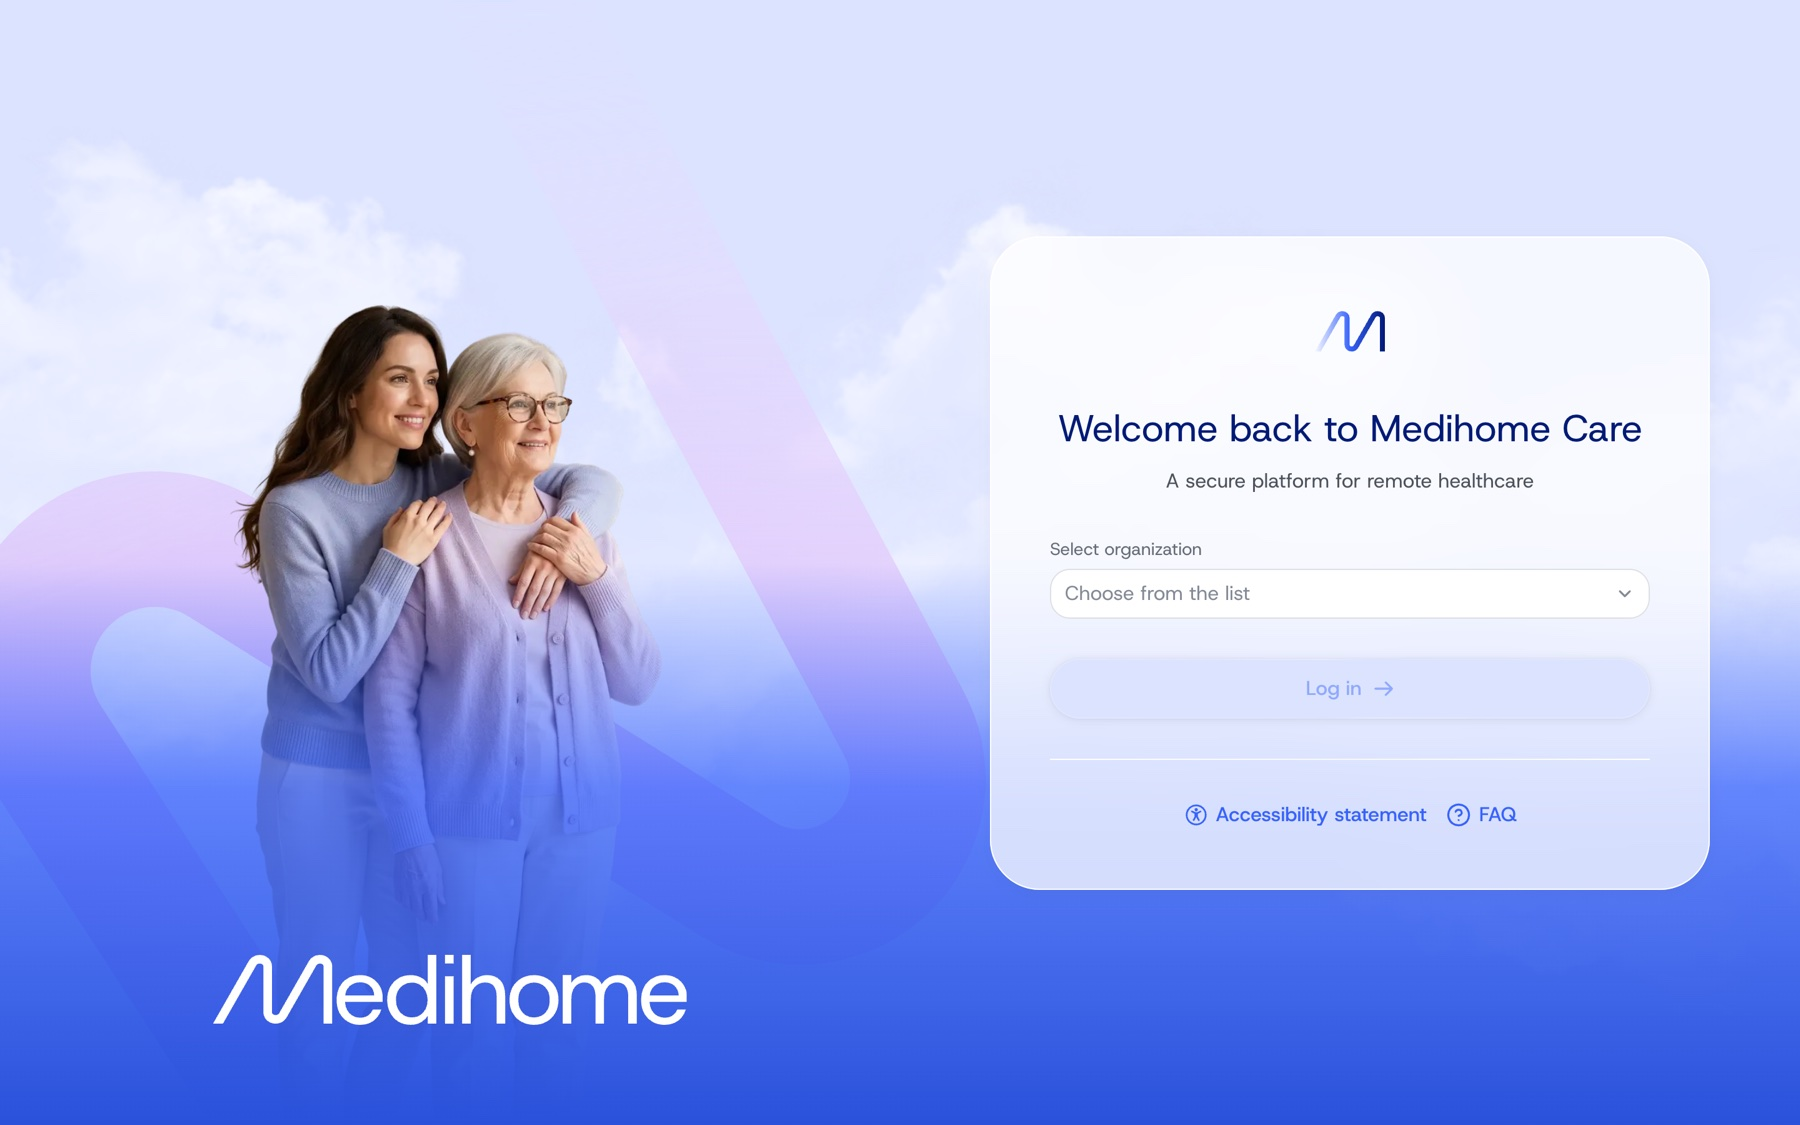
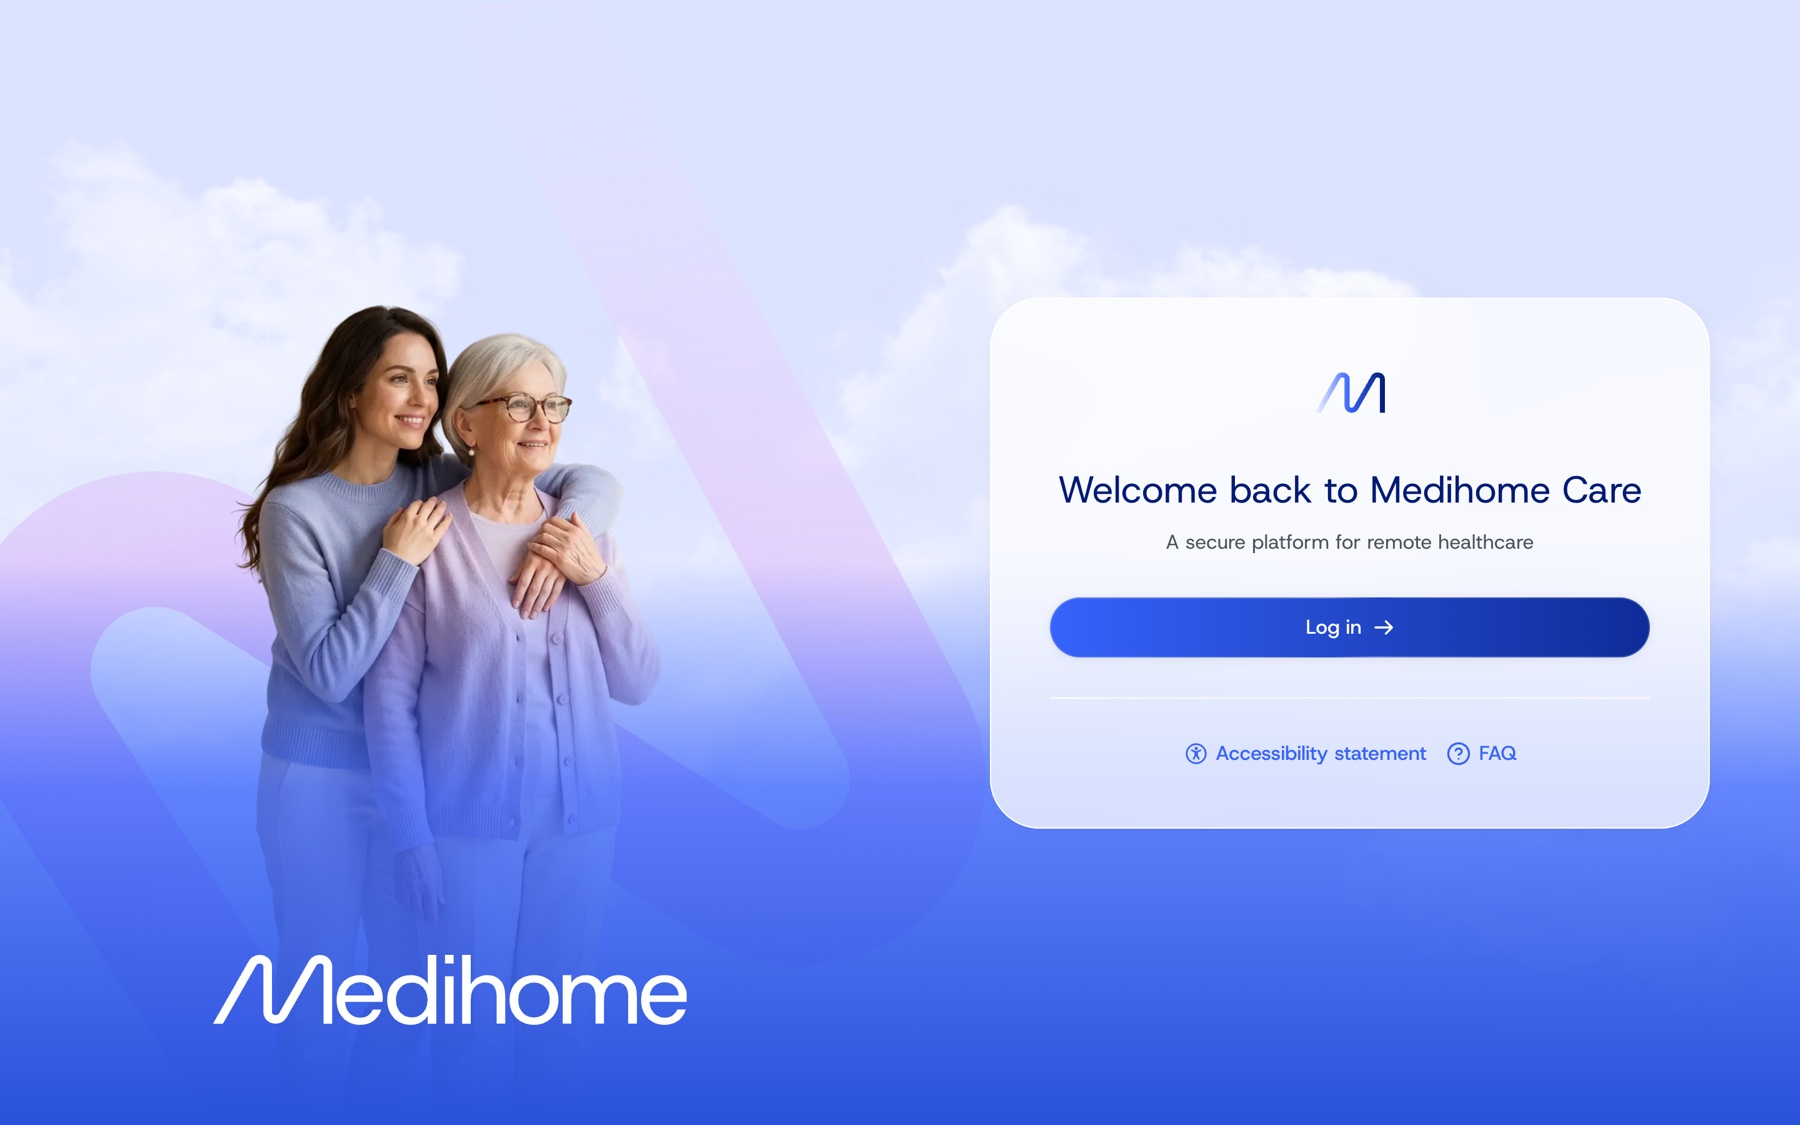
Add Medihome Care dashboard and beds screenshots
Show three screenshots in the archive (login, dashboard, bed planner)
and refresh the desktop and mobile login shots on the homepage card.
All patient data in the screenshots is fake demo data.

diff --git a/src/content/projects.ts b/src/content/projects.ts
@@ -509,7 +509,7 @@ export const earlierWork: EarlierProject[] = [
     slug: 'medihome-care',
     via: 'veevoy',
     year: '2026',
-    shots: 1,
+    shots: 3,
     cover: {
       src: '/images/earlier/medihome-care/1.jpg',
       second: '/images/earlier/medihome-care/m-login.jpg',
